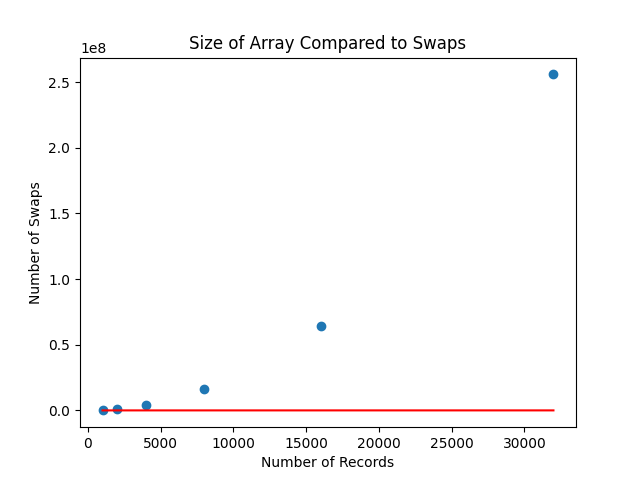
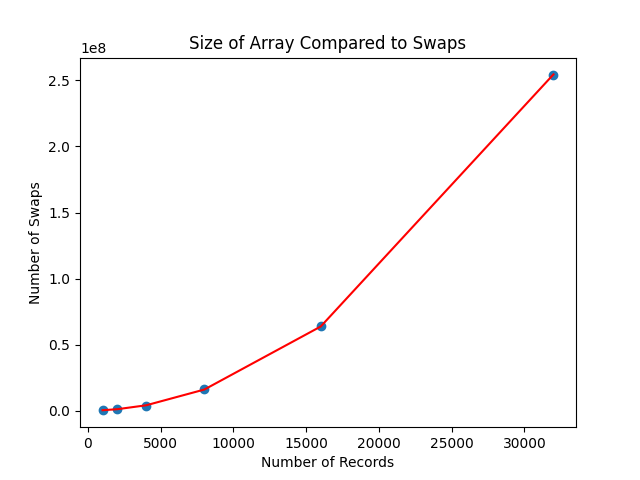
excerise3

diff --git a/ex3.py b/ex3.py
@@ -36,7 +36,7 @@ def quad(x, a, b):
     return a*np.power(x,2) + b
 constants = curve_fit(quad, vector_sizes, swapList)
 plt.scatter(vector_sizes, swapList)
-linevalues = [constants[0][0] * x + constants[0][1] for x in vector_sizes]
+linevalues = [constants[0][0] * np.power(x,2) + constants[0][1] for x in vector_sizes]
 plt.plot(vector_sizes, linevalues, 'r')
 
 # Save the plot to a file named output.3.2.png
@@ -48,7 +48,7 @@ plt.savefig('output.3.4.1.png')
 plt.clf()
 constants = curve_fit(quad, vector_sizes, comparisonsList)
 plt.scatter(vector_sizes, comparisonsList)
-linevalues = [constants[0][0] * x + constants[0][1] for x in vector_sizes]
+linevalues = [constants[0][0] * np.power(x,2) + constants[0][1] for x in vector_sizes]
 plt.plot(vector_sizes, linevalues, 'r')
 
 # Save the plot to a file named output.3.2.png
